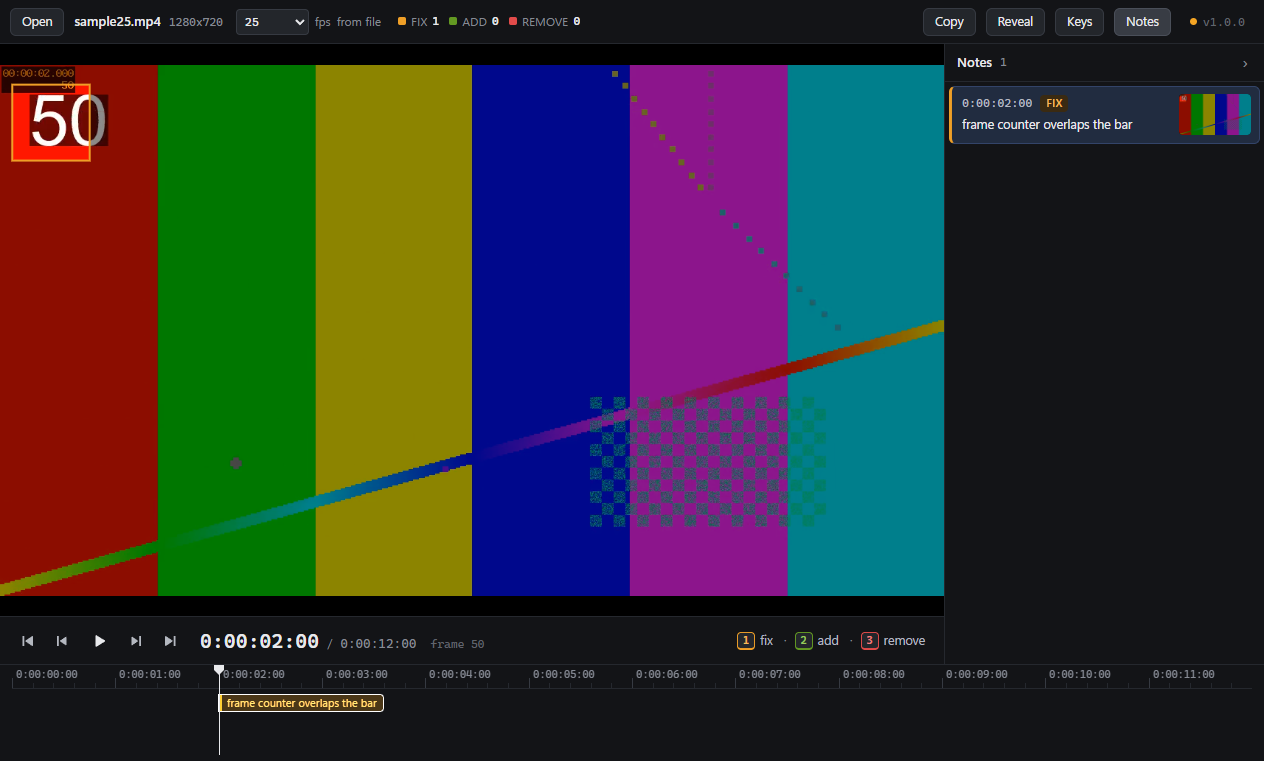
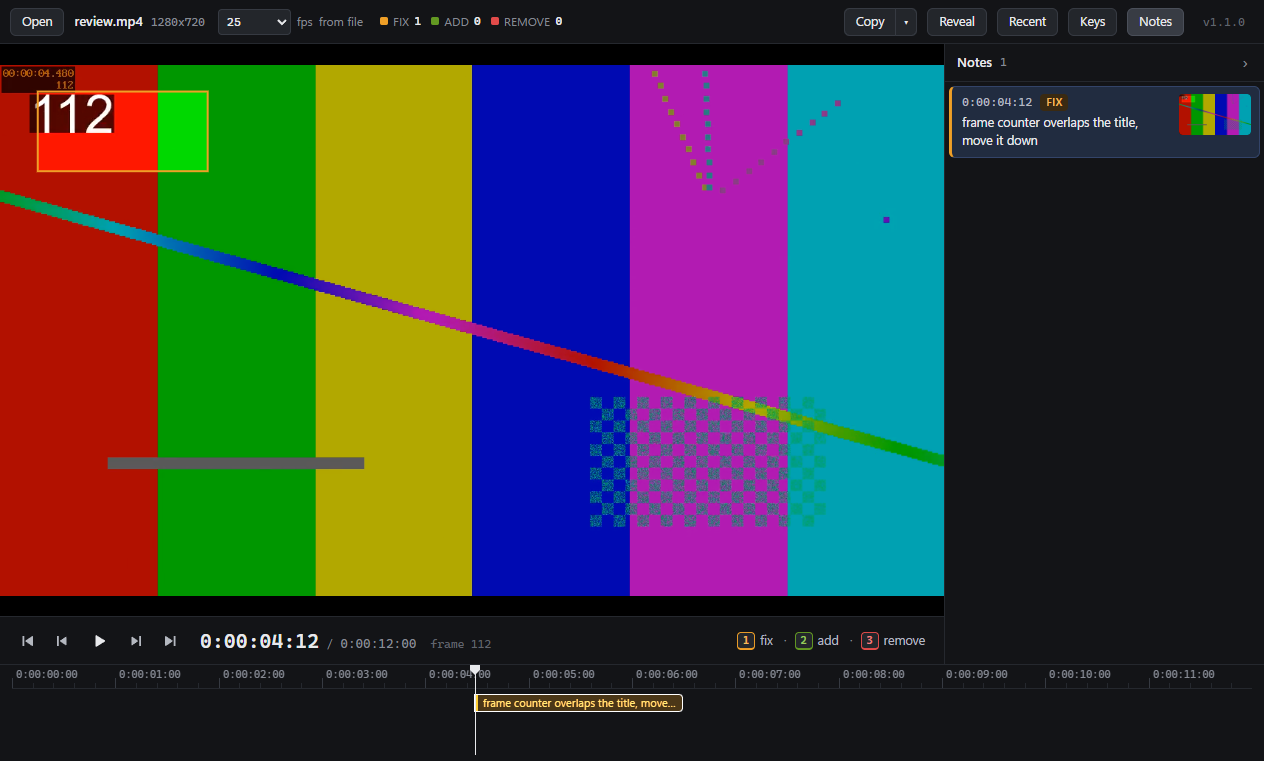
Describe the notes folder, the readable export and the recent menu

diff --git a/README.md b/README.md
@@ -2,7 +2,7 @@
 
 # Frame Notes: frame-accurate video review notes for editors
 
-**Pause the video, press a key, type a line. Every note lands on the exact frame with an After Effects style timecode, in a plain text file next to the video. One portable exe for Windows, no project files, no account.**
+**Pause the video, press a key, type a line. Every note lands on the exact frame with an After Effects style timecode, in a notes folder next to the video. One portable exe for Windows, no project files, no account.**
 
 [![Download](https://img.shields.io/badge/Download-FrameNotes.exe-5d8dff?style=for-the-badge&logo=windows&logoColor=white)](https://github.com/softoblivion/frame-notes/releases/latest/download/FrameNotes.exe)
 [![Release](https://img.shields.io/github/v/release/softoblivion/frame-notes?display_name=release&label=latest&style=for-the-badge)](https://github.com/softoblivion/frame-notes/releases/latest)
@@ -16,7 +16,7 @@
 
 <img src="docs/assets/screenshot.png" alt="Frame Notes main window" width="860">
 
-<sub>Pause on a frame · press 1, 2 or 3 · drag a rectangle around the element · type the note. Saved next to the video.</sub>
+<sub>Pause on a frame · press 1, 2 or 3 · drag a rectangle around the element · type the note. Saved in a folder next to the video.</sub>
 
 </div>
 
@@ -46,9 +46,10 @@
   point). The note gets a PNG of that frame with the mark drawn on it, so "this title" needs no description.
 - **Timecodes the editor can use.** `0:00:12:07` as in the After Effects timeline (drop-frame `0;00;12;07` for
   29.97 and 59.94), computed from the file's real frame rate.
-- **One readable file, next to the video.** `promo_v3.mp4` gets `promo_v3_notes.txt`: a header and one line per
-  note. Paste it into a chat, open it in Notepad, hand it to the editor. Open the video again and the notes are
-  back on the timeline.
+- **One folder next to the video.** `promo_v3.mp4` gets `promo_v3_notes\` with the notes as a plain text file,
+  the same notes as a readable Markdown page with the frame images, and the images themselves. Paste the text into
+  a chat, open the page in any Markdown viewer, hand the folder to the editor. Open the video again and the notes
+  are back on the timeline.
 - **A mini timeline.** Every note is a coloured marker; click a marker to jump to its frame, step frame by frame
   with the arrow keys.
 - **Portable.** One `FrameNotes.exe` with a data folder next to it. Move the folder, move the app.
@@ -59,7 +60,7 @@
    into a folder of its own, for example `D:\Apps\FrameNotes\`.
 2. Run it and drop a video onto the window (or press `Ctrl+O`, or use "Open with" in Explorer).
 3. Play, pause on a frame, press `1`, `2` or `3`, drag a rectangle around the element if it helps, type the note,
-   press `Enter`. The notes file is saved after every change.
+   press `Enter`. The notes are saved after every change.
 
 **Requirements:** Windows 10 (1809+) or Windows 11 with the Microsoft Edge WebView2 Runtime (preinstalled on
 Windows 11 and on up-to-date Windows 10). No installer, no admin rights.
@@ -72,15 +73,17 @@ Windows 11 and on up-to-date Windows 10). No installer, no admin rights.
 | | |
 |---|---|
 | **Three note types** | FIX (correct something), ADD (something is missing), REMOVE (take something out), bound to `1` / `2` / `3`. Each has its own marker colour on the timeline and its own tag in the file. |
-| **Region on the frame** | While a note is being written, drag a rectangle on the video or click to put a point. The frame is saved as a PNG with the mark drawn on it into `<name>_notes\` next to the video, and the mark reappears over the video whenever the note is selected. |
+| **Region on the frame** | While a note is being written, drag a rectangle on the video or click to put a point. The frame is saved as a PNG with the mark drawn on it into `<name>_notes\frames\` next to the video, and the mark reappears over the video whenever the note is selected. |
 | **Frame-accurate** | Seeks land on frame centres; the current frame and its timecode are shown next to the total duration. Arrow keys step one frame, `Shift` + arrows ten. |
 | **Mini timeline** | Ruler with timecodes, playhead, one marker per note with the first words of its text. Hover shows the full note and its frame image; click seeks; wheel zooms, `Shift` + wheel pans. |
 | **Notes list** | Every note as `timecode  TYPE  text` with a thumbnail; select with `↑` / `↓` (the video follows), edit with `F2`, remove with `Delete`. |
-| **Automatic save** | The notes file is rewritten after every change with an atomic replace. No Save button, nothing to lose when the window closes. |
-| **Copy to clipboard** | `Ctrl+C` outside a text field copies the whole notes file as text. |
+| **Automatic save** | The notes file and its readable version are rewritten after every change with an atomic replace. No Save button, nothing to lose when the window closes. |
+| **Readable export** | `<name>_notes.md` lists every note as `timecode · TYPE · text` with its frame image, under a line with the frame rate, duration and the count per type. |
+| **Copy to clipboard** | `Ctrl+C` outside a text field copies the notes file text; `Ctrl+Shift+C` (or **Copy ▾ → Readable text**) copies the readable version for a chat. |
+| **Recent videos** | The start screen and the **Recent** menu list recent videos with their note counts. Right click an entry to open it, show its notes folder in Explorer, delete its notes (with a confirmation) or take it off the list. |
 | **Frame rate from the file** | Read from the MP4 / MOV or WebM container; a header control shows it and lets you override it when a file reports a wrong rate. |
 | **Portable** | One exe, one data folder next to it, no installer. Several windows can be open at once, one review each. |
-| **Self-updating app** | New releases are detected on launch, downloaded in the background (or on request), verified by size and SHA-256 and installed on **Restart**. |
+| **Self-updating app** | New releases are detected on launch and then every 30 minutes (or hourly, every 6 hours, daily, weekly), downloaded in the background (or on request), verified by size and SHA-256 and installed on **Restart**. |
 
 ## Keyboard
 
@@ -97,14 +100,24 @@ Windows 11 and on up-to-date Windows 10). No installer, no admin rights.
 | `Delete` | Remove the selected note |
 | `↑` `↓` | Previous / next note (seeks to it) |
 | `Ctrl+C` | Copy the notes file text (when no text field is focused) |
+| `Ctrl+Shift+C` | Copy the readable text |
 | `Ctrl+O` | Open a video |
 | `0` | Reset the timeline zoom |
 | `?` | Show the key map |
 
 ## The notes file
 
-`promo_v3.mp4` → `promo_v3_notes.txt` in the same folder, plus a `promo_v3_notes\` folder with one PNG per note
-that has a region. UTF-8, tab-separated:
+Everything of one review sits in one folder next to the video:
+
+```
+promo_v3.mp4
+promo_v3_notes\
+    promo_v3_notes.txt          the notes (the app reads this file back)
+    promo_v3_notes.md           the same notes, written for people
+    frames\0-00-12-07_FIX.png   one image per note that has a region
+```
+
+**`promo_v3_notes.txt`** is the data file: UTF-8, tab-separated, one line per note.
 
 ```
 # Frame Notes 1
@@ -117,10 +130,33 @@ that has a region. UTF-8, tab-separated:
 ```
 
 The first three columns are what the editor reads: timecode, type, text. The optional fourth column is the region
-in fractions of the frame, the fifth the image file name. Lines are sorted by frame. The `source` line ties the
-file to its video; lines the app does not understand are kept, so hand edits survive. Removing a note deletes
-its image; removing every note leaves the header, so the editor can see that the review happened and found
-nothing.
+in fractions of the frame, the fifth the image file name inside `frames\`. Lines are sorted by frame. The `source`
+line ties the file to its video; lines the app does not understand are kept, so hand edits survive.
+
+**`promo_v3_notes.md`** is the readable version, rewritten after every change. Plain Markdown, so it reads well
+in Notepad, in a chat and in any Markdown viewer, where the frame images show right under their notes:
+
+```
+# promo_v3.mp4
+
+25 fps · 0:01:32:10 · FIX 1 · ADD 1 · REMOVE 1
+
+- **0:00:12:07** · FIX · logo flickers for two frames
+  ![](frames/0-00-12-07_FIX.png)
+- **0:00:40:00** · ADD · subtitle for the second speaker
+- **0:01:02:15** · REMOVE · second take of the handshake
+  ![](frames/0-01-02-15_REMOVE.png)
+```
+
+**Copy** in the header copies the data file text (`Ctrl+C`); its arrow menu also offers the readable text
+(`Ctrl+Shift+C`), without the image lines, ready to paste into a chat.
+
+Removing a note deletes its image; removing every note keeps the folder with a header-only file, so the editor
+can see that the review happened and found nothing. A video you only watched gets no folder.
+
+**Notes from 1.0.** Version 1.0 wrote `promo_v3_notes.txt` beside the video and the images directly into
+`promo_v3_notes\`. The first time 1.1 opens such a video it moves both into the layout above (images first, then
+the text file) and writes the readable version; nothing in the notes changes.
 
 ## Timecodes
 
@@ -138,13 +174,13 @@ planned.
 
 ## Data and privacy
 
-The notes file is the only thing written next to your videos. Everything else lives in `frame-notes_data\` beside
+The notes folder (`<name>_notes\`) is the only thing written next to your videos. Everything else lives in `frame-notes_data\` beside
 `FrameNotes.exe` (override with the `FRAME_NOTES_HOME` environment variable); nothing is written to the user
 profile:
 
 | Path | Content |
 |---|---|
-| `settings.json` | window placement, recent files with their last frame and frame-rate override, panel state, update setting |
+| `settings.json` | window placement, recent files with their last frame and frame-rate override, panel state, update settings |
 | `logs\` | `app.log` |
 | `updates\` | downloaded app updates and `apply.log` |
 
@@ -152,7 +188,8 @@ Network traffic goes to GitHub only (release check and download). Videos and not
 
 ## Updates
 
-The app checks GitHub Releases on every launch in the background. A new version is downloaded automatically
+The app checks GitHub Releases on every launch in the background and then on a timer: every 30 minutes by
+default, or every hour, 6 hours, day or week (*Check for updates* in the version popover). A new version is downloaded automatically
 (*Download updates automatically*, on by default) or on **Download**, verified by byte size and SHA-256 against
 the release's `SHA256SUMS`, and installed by **Restart to update**: the downloaded exe waits for the app to exit,
 keeps the old file as `FrameNotes.exe.old` until the new one has started, and relaunches it. If anything fails
